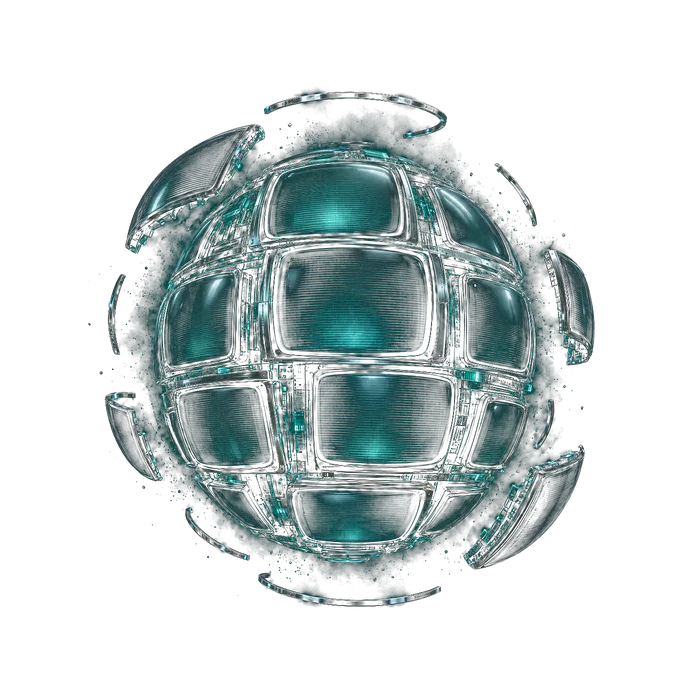
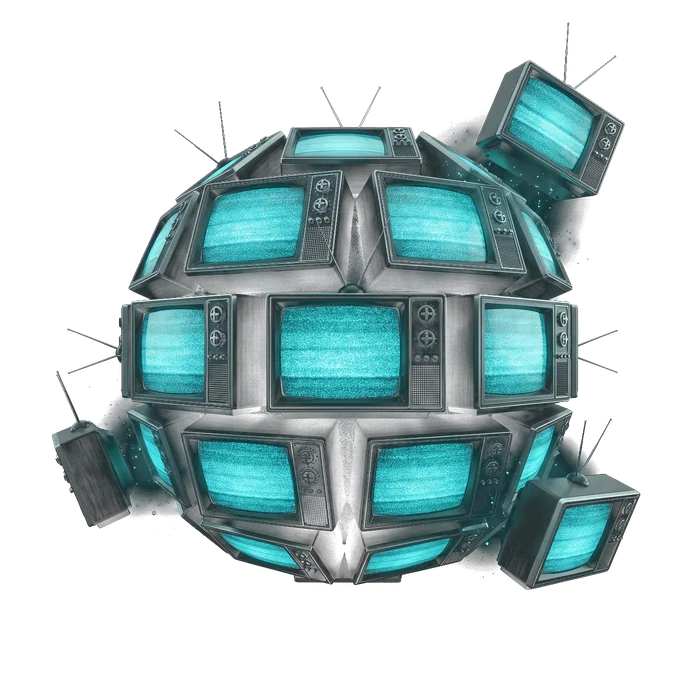
Rebuild the planet from the hero television, in orbit over Earth
The sphere is now made of the same 1970s set as the hero: charcoal
cabinets, chrome tuner knobs, rabbit ears, static screens, with a few
sets drifting off mid-assembly. It sits over a real Earth plate, cut out
with alpha so it floats, and the channel labels stay clear of the planet.

diff --git a/app/ops.css b/app/ops.css
@@ -500,99 +500,33 @@ html.ops-has-remote .ops summary {
 }
 
 /* deep space behind the planet */
-.ops-orbit::before,
+.ops-orbit__space {
+  position: absolute;
+  inset: 0;
+  z-index: -2;
+  display: block;
+  overflow: hidden;
+}
+
+.ops-orbit__space img {
+  width: 100%;
+  height: 100%;
+  /* contain keeps Earth small and far off, and the letterbox is page black */
+  object-fit: contain;
+  object-position: center;
+  opacity: 0.9;
+}
+
+/* the plate dissolves into the page top and bottom */
 .ops-orbit::after {
   content: "";
   position: absolute;
-  inset: -10% -5%;
+  inset: 0;
+  z-index: -1;
   pointer-events: none;
-  z-index: -2;
+  background: linear-gradient(to bottom, var(--bg) 0%, rgba(11, 12, 12, 0) 26%, rgba(11, 12, 12, 0) 72%, var(--bg) 100%),
+    radial-gradient(ellipse 46% 44% at 50% 50%, rgba(78, 124, 119, 0.18), transparent 72%);
 }
-
-.ops-orbit::before {
-  background-image: radial-gradient(1.5px 1.5px at 32.4% 15.1%, rgba(236,239,238,0.5), transparent 60%),
-    radial-gradient(1px 1px at 7.2% 53.6%, rgba(236,239,238,0.5), transparent 60%),
-    radial-gradient(1px 1px at 91.0% 21.5%, rgba(236,239,238,0.6), transparent 60%),
-    radial-gradient(1.5px 1.5px at 41.8% 24.1%, rgba(236,239,238,0.6), transparent 60%),
-    radial-gradient(1px 1px at 5.9% 56.5%, rgba(236,239,238,0.5), transparent 60%),
-    radial-gradient(1px 1px at 57.7% 39.7%, rgba(236,239,238,0.5), transparent 60%),
-    radial-gradient(1px 1px at 55.7% 13.3%, rgba(236,239,238,0.35), transparent 60%),
-    radial-gradient(1.5px 1.5px at 54.1% 57.1%, rgba(236,239,238,0.35), transparent 60%),
-    radial-gradient(1px 1px at 10.3% 57.1%, rgba(236,239,238,0.25), transparent 60%),
-    radial-gradient(1.5px 1.5px at 9.7% 71.2%, rgba(236,239,238,0.5), transparent 60%),
-    radial-gradient(1.5px 1.5px at 61.9% 49.6%, rgba(236,239,238,0.6), transparent 60%),
-    radial-gradient(1px 1px at 77.7% 46.6%, rgba(236,239,238,0.25), transparent 60%),
-    radial-gradient(1.5px 1.5px at 30.0% 79.4%, rgba(236,239,238,0.35), transparent 60%),
-    radial-gradient(1px 1px at 8.2% 30.0%, rgba(236,239,238,0.25), transparent 60%),
-    radial-gradient(1px 1px at 72.9% 28.8%, rgba(236,239,238,0.5), transparent 60%),
-    radial-gradient(1px 1px at 51.2% 16.5%, rgba(236,239,238,0.35), transparent 60%),
-    radial-gradient(1.5px 1.5px at 93.3% 42.2%, rgba(236,239,238,0.5), transparent 60%),
-    radial-gradient(1px 1px at 76.5% 57.3%, rgba(236,239,238,0.25), transparent 60%),
-    radial-gradient(1.5px 1.5px at 69.5% 59.4%, rgba(236,239,238,0.6), transparent 60%),
-    radial-gradient(1px 1px at 6.9% 9.4%, rgba(236,239,238,0.6), transparent 60%),
-    radial-gradient(1.5px 1.5px at 69.7% 6.5%, rgba(236,239,238,0.25), transparent 60%),
-    radial-gradient(1px 1px at 64.7% 99.3%, rgba(236,239,238,0.25), transparent 60%),
-    radial-gradient(1px 1px at 71.7% 88.7%, rgba(236,239,238,0.5), transparent 60%),
-    radial-gradient(1.5px 1.5px at 94.1% 35.5%, rgba(236,239,238,0.5), transparent 60%),
-    radial-gradient(1px 1px at 49.4% 21.8%, rgba(236,239,238,0.35), transparent 60%),
-    radial-gradient(1px 1px at 73.8% 39.8%, rgba(236,239,238,0.5), transparent 60%),
-    radial-gradient(1px 1px at 16.6% 40.2%, rgba(236,239,238,0.35), transparent 60%),
-    radial-gradient(1px 1px at 81.9% 86.4%, rgba(236,239,238,0.6), transparent 60%),
-    radial-gradient(1px 1px at 98.6% 68.3%, rgba(236,239,238,0.35), transparent 60%),
-    radial-gradient(1px 1px at 15.1% 17.6%, rgba(236,239,238,0.35), transparent 60%),
-    radial-gradient(1px 1px at 1.2% 83.1%, rgba(236,239,238,0.25), transparent 60%),
-    radial-gradient(1.5px 1.5px at 28.2% 14.6%, rgba(236,239,238,0.25), transparent 60%),
-    radial-gradient(1px 1px at 61.0% 31.9%, rgba(236,239,238,0.5), transparent 60%),
-    radial-gradient(1.5px 1.5px at 45.7% 87.1%, rgba(236,239,238,0.6), transparent 60%),
-    radial-gradient(1px 1px at 39.8% 39.4%, rgba(236,239,238,0.6), transparent 60%),
-    radial-gradient(1px 1px at 6.2% 6.7%, rgba(236,239,238,0.6), transparent 60%),
-    radial-gradient(1px 1px at 16.2% 34.0%, rgba(236,239,238,0.5), transparent 60%),
-    radial-gradient(1px 1px at 0.0% 15.1%, rgba(236,239,238,0.25), transparent 60%),
-    radial-gradient(1px 1px at 61.4% 7.0%, rgba(236,239,238,0.6), transparent 60%),
-    radial-gradient(1px 1px at 14.9% 25.2%, rgba(236,239,238,0.25), transparent 60%),
-    radial-gradient(1px 1px at 47.4% 11.5%, rgba(236,239,238,0.6), transparent 60%),
-    radial-gradient(1px 1px at 48.0% 31.2%, rgba(236,239,238,0.5), transparent 60%),
-    radial-gradient(1px 1px at 75.0% 74.0%, rgba(236,239,238,0.35), transparent 60%),
-    radial-gradient(1.5px 1.5px at 51.6% 20.5%, rgba(236,239,238,0.25), transparent 60%),
-    radial-gradient(1px 1px at 14.7% 54.3%, rgba(236,239,238,0.25), transparent 60%),
-    radial-gradient(1.5px 1.5px at 97.9% 86.3%, rgba(236,239,238,0.25), transparent 60%);
-  background-repeat: no-repeat;
-  opacity: 0.5;
-  animation: ops-stars 140s linear infinite;
-}
-
-.ops-orbit::after {
-  background-image: radial-gradient(2px 2px at 51.8% 90.8%, rgba(236,239,238,0.8), transparent 60%),
-    radial-gradient(2px 2px at 53.3% 77.9%, rgba(236,239,238,0.7), transparent 60%),
-    radial-gradient(1.5px 1.5px at 22.3% 81.2%, rgba(236,239,238,0.8), transparent 60%),
-    radial-gradient(1.5px 1.5px at 81.8% 74.0%, rgba(236,239,238,0.8), transparent 60%),
-    radial-gradient(1.5px 1.5px at 51.8% 35.6%, rgba(236,239,238,0.8), transparent 60%),
-    radial-gradient(1.5px 1.5px at 79.0% 47.2%, rgba(236,239,238,0.7), transparent 60%),
-    radial-gradient(2.5px 2.5px at 60.5% 34.4%, rgba(236,239,238,0.6), transparent 60%),
-    radial-gradient(1.5px 1.5px at 95.5% 36.5%, rgba(236,239,238,0.8), transparent 60%),
-    radial-gradient(1.5px 1.5px at 22.7% 19.7%, rgba(236,239,238,0.6), transparent 60%),
-    radial-gradient(1.5px 1.5px at 62.4% 90.0%, rgba(236,239,238,0.6), transparent 60%),
-    radial-gradient(2.5px 2.5px at 90.9% 34.4%, rgba(236,239,238,0.8), transparent 60%),
-    radial-gradient(2px 2px at 83.5% 12.0%, rgba(236,239,238,0.7), transparent 60%),
-    radial-gradient(1.5px 1.5px at 75.0% 47.8%, rgba(236,239,238,0.6), transparent 60%),
-    radial-gradient(2.5px 2.5px at 78.9% 33.3%, rgba(236,239,238,0.6), transparent 60%),
-    radial-gradient(1.5px 1.5px at 46.3% 74.3%, rgba(236,239,238,0.7), transparent 60%),
-    radial-gradient(1.5px 1.5px at 15.9% 99.3%, rgba(236,239,238,0.8), transparent 60%),
-    radial-gradient(2.5px 2.5px at 59.1% 46.5%, rgba(236,239,238,0.8), transparent 60%),
-    radial-gradient(2px 2px at 61.2% 59.6%, rgba(236,239,238,0.7), transparent 60%),
-    radial-gradient(ellipse 60% 45% at 50% 50%, rgba(78, 124, 119, 0.16), transparent 72%),
-    radial-gradient(ellipse 30% 22% at 16% 78%, rgba(85, 175, 166, 0.1), transparent 70%);
-  background-repeat: no-repeat;
-  opacity: 0.75;
-  animation: ops-stars 90s linear infinite reverse;
-}
-
-@keyframes ops-stars {
-  from { transform: translate3d(0, 0, 0); }
-  to { transform: translate3d(-2%, 3%, 0); }
-}
-
-
 
 .ops-orbit__inner {
   width: min(1280px, 100%);
@@ -691,6 +625,12 @@ html.ops-has-remote .ops summary {
 
 /* On a phone the ring unwinds: sphere on top, channels listed underneath */
 @media (max-width: 860px) {
+  /* contain would letterbox on a tall screen, so fill and keep Earth in view */
+  .ops-orbit__space img {
+    object-fit: cover;
+    object-position: 24% 34%;
+  }
+
   .ops-orbit__ring {
     display: block;
     width: 100%;

diff --git a/components/ops/OpsPage.tsx b/components/ops/OpsPage.tsx
@@ -22,7 +22,7 @@ const orbit = [
   { ch: "02", label: "Toolkit", href: "#toolkit", angle: -40 },
   { ch: "03", label: "Case Studies", href: "#case-studies", angle: 26 },
   { ch: "04", label: "Off the Clock", href: "#off-clock", angle: 92 },
-  { ch: "05", label: "LinkedIn", href: siteConfig.links.linkedin, angle: 168, external: true },
+  { ch: "05", label: "LinkedIn", href: siteConfig.links.linkedin, angle: -166, external: true },
 ];
 
 const metrics = [
@@ -284,6 +284,15 @@ export default function OpsPage() {
 
         <div className="ops-body">
           <section className="ops-orbit" aria-label="Sections">
+            <picture className="ops-orbit__space" aria-hidden="true">
+              <source
+                srcSet="/orbit/earth-sm.webp 1000w, /orbit/earth.webp 2000w"
+                sizes="100vw"
+                type="image/webp"
+              />
+              <img src="/orbit/earth.jpg" alt="" loading="lazy" decoding="async" />
+            </picture>
+
             <div className="ops-orbit__inner">
               <p className="ops-orbit__kicker">Pick a channel</p>
 
